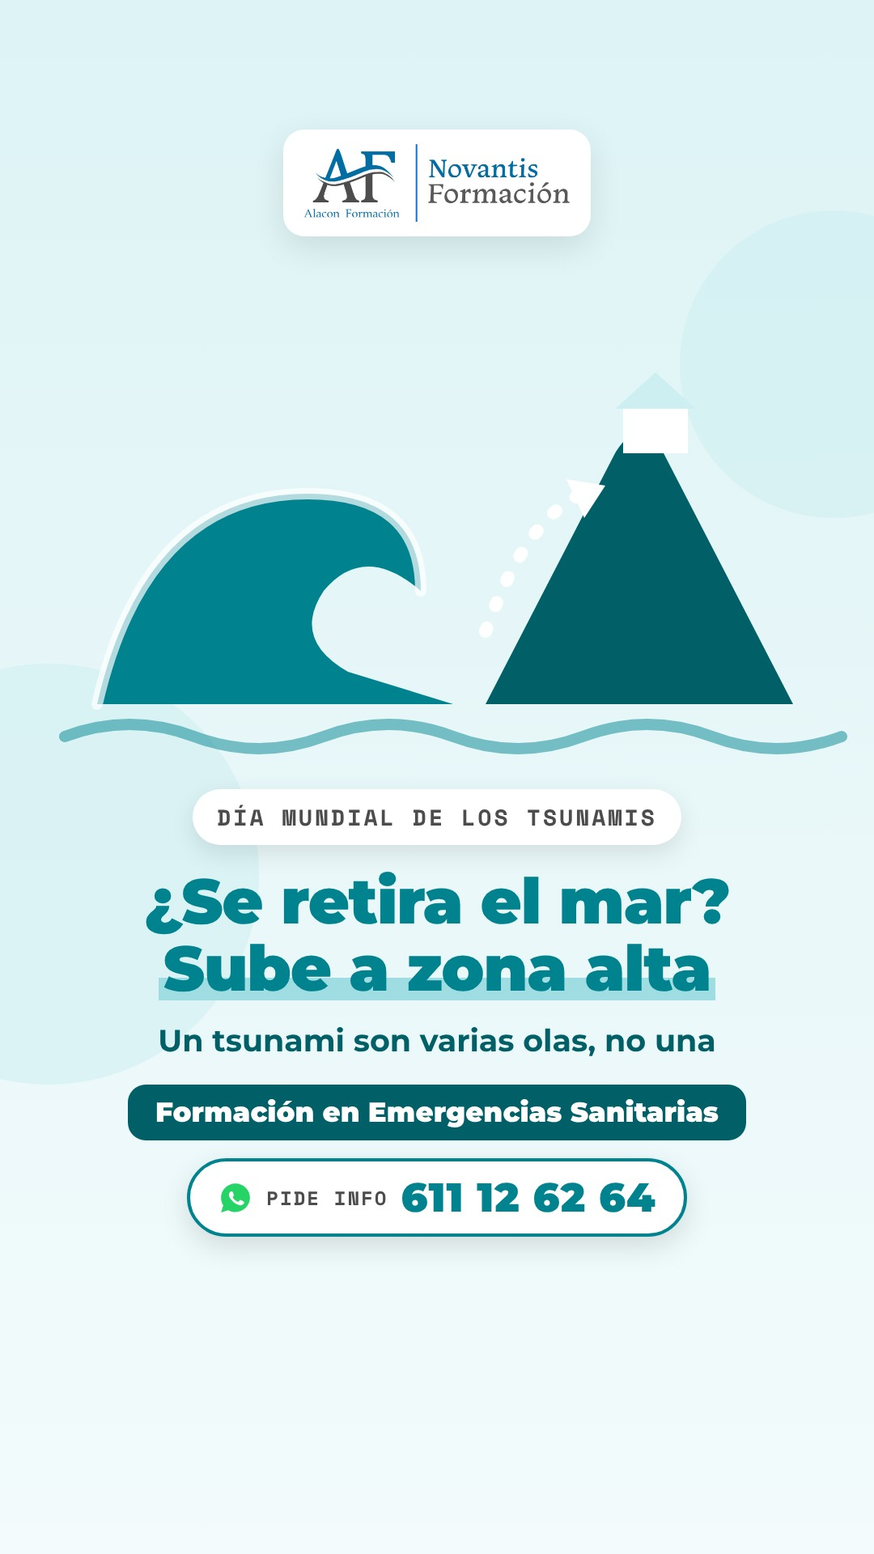
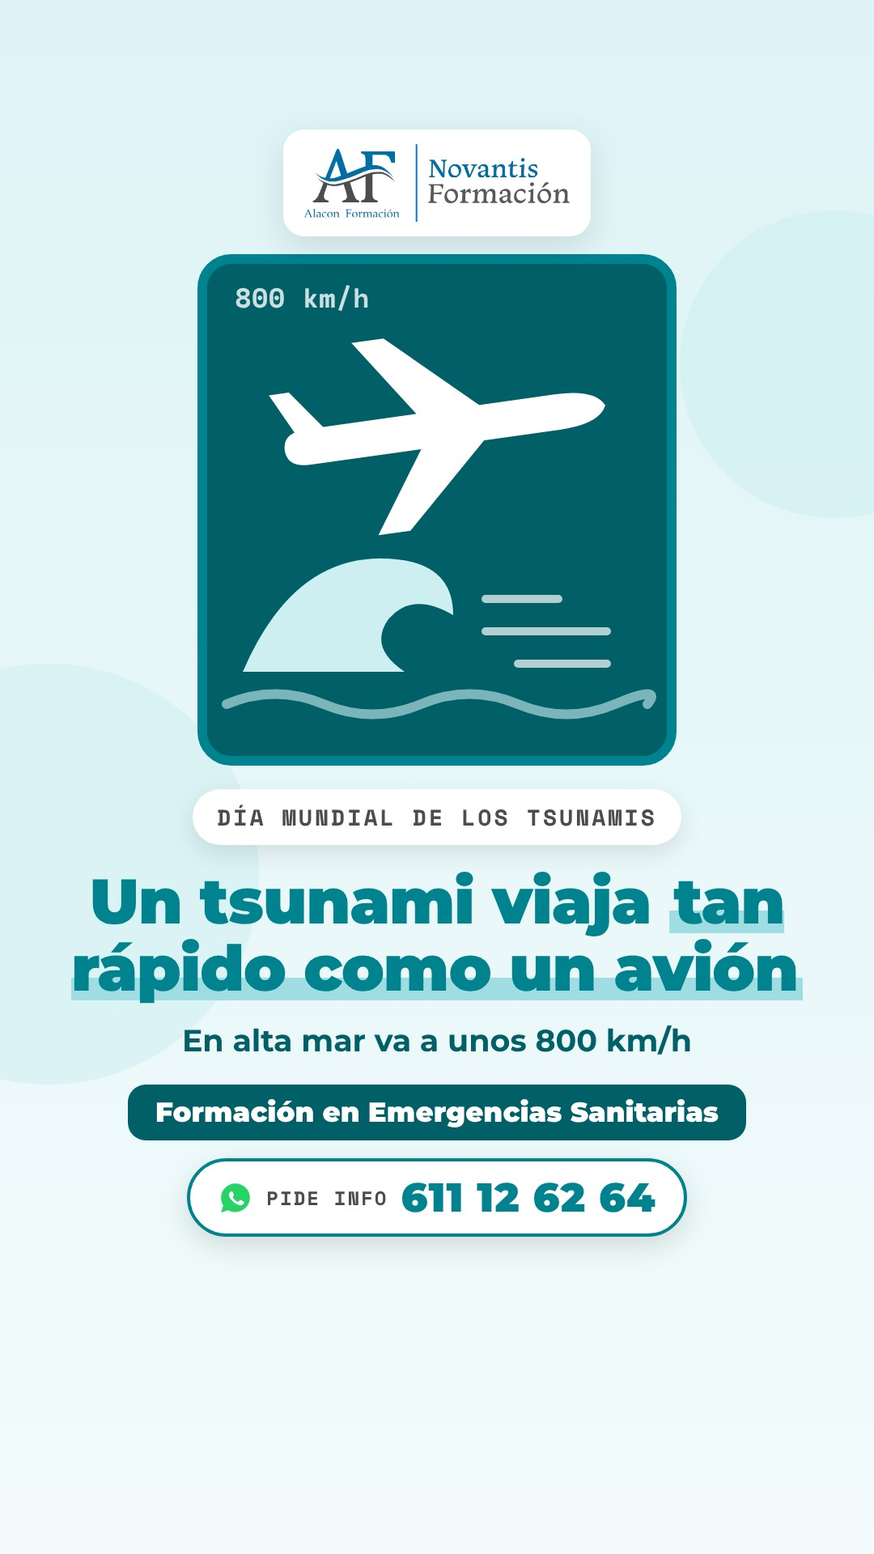
Historias 5, 6 y 7 de noviembre: datos curiosos en lugar de consejos obvios
Claude-Session: https://claude.ai/code/session_01SnWULSeimGG9wnx49MA5iz

Changed region(s): [[0.0611, 0.1562, 0.9778, 0.5], [0.0611, 0.5625, 0.9167, 0.6875]]

diff --git a/disenos/semana-2026-11-02/2026-11-07-gatos-dulce.html b/disenos/semana-2026-11-02/2026-11-07-gatos-dulce.html
@@ -14,7 +14,7 @@ body { font-family: "Montserrat", sans-serif; color: #FFFFFF; position: relative
 .kicker { text-align: center; }
 .chip { display: inline-flex; align-items: center; gap: 14px; background: #fff; border-radius: 999px; padding: 14px 30px;
   font-family: "Space Mono", monospace; font-weight: 700; font-size: 28px; letter-spacing: 3px; text-transform: uppercase;
-  color: #B02A21; box-shadow: 0 10px 30px rgba(0,0,0,.10); }
+  color: #4C4C4C; box-shadow: 0 10px 30px rgba(0,0,0,.10); }
 .titular { margin: 28px 70px 0; text-align: center; font-weight: 900; font-size: 78px;
   line-height: 1.07; letter-spacing: -1px; color: #FFFFFF; }
 .marca { background: linear-gradient(transparent 62%, #2F6F9E 62%, #2F6F9E 92%, transparent 92%); padding: 0 6px; }
@@ -23,7 +23,7 @@ body { font-family: "Montserrat", sans-serif; color: #FFFFFF; position: relative
 .curso { margin-top: 30px; text-align: center; }
 .curso span { display: inline-block; background: #7FC4EE; color: #0D2235;
   font-weight: 900; font-size: 34px; padding: 14px 34px; border-radius: 22px; line-height: 1.2; max-width: 900px; }
-.curso small { font-weight: 700; font-size: 26px; }
+.curso small { font-weight: 700; font-size: 24px; }
 .wa { margin-top: 22px; display: inline-flex; align-items: center;
   gap: 16px; background: #fff; border-radius: 999px; padding: 14px 34px; border: 4px solid #7FC4EE;
   box-shadow: 0 12px 34px rgba(0,0,0,.12); white-space: nowrap; }
@@ -32,20 +32,24 @@ body { font-family: "Montserrat", sans-serif; color: #FFFFFF; position: relative
 </style></head><body>
 <div class="circulo" style="width:520px;height:520px;left:-200px;top:820px"></div>
 <div class="circulo" style="width:380px;height:380px;right:-140px;top:260px"></div>
-<svg class="ilu" width="1080" height="640" viewBox="0 0 1080 640" aria-hidden="true"><circle cx="380" cy="320" r="190" fill="#1E3A52" stroke="#7FC4EE" stroke-width="14"/>
-<rect x="355" y="100" width="50" height="40" rx="10" fill="#7FC4EE"/>
-<path d="M380 320 L380 190" stroke="#7FC4EE" stroke-width="16" stroke-linecap="round"/>
-<path d="M380 320 L470 380" stroke="#7FC4EE" stroke-width="16" stroke-linecap="round"/>
-<circle cx="380" cy="320" r="18" fill="#7FC4EE"/>
-<text x="380" y="460" text-anchor="middle" font-family="Montserrat" font-weight="900" font-size="64" fill="#7FC4EE">5 min</text>
-<rect x="640" y="150" width="230" height="380" rx="40" fill="#fff"/>
-<rect x="665" y="200" width="180" height="250" rx="16" fill="#1E3A52"/>
-<text x="755" y="355" text-anchor="middle" font-family="Montserrat" font-weight="900" font-size="84" fill="#7FC4EE">112</text>
-<circle cx="755" cy="490" r="18" fill="#1E3A52"/></svg>
+<svg class="ilu" width="1080" height="640" viewBox="0 0 1080 640" aria-hidden="true"><rect x="250" y="10" width="580" height="620" rx="36" fill="#0A1A29"/>
+<rect x="250" y="10" width="580" height="620" rx="36" fill="none" stroke="#7FC4EE" stroke-width="12"/>
+
+<path d="M330 260 L360 120 L440 210 Z" fill="#fff"/><path d="M640 210 L720 120 L750 260 Z" fill="#fff"/>
+<ellipse cx="540" cy="330" rx="230" ry="190" fill="#fff"/>
+<path d="M362 160 L415 210 L375 228 Z M718 160 L665 210 L705 228 Z" fill="#F4B6C2"/>
+<ellipse cx="460" cy="310" rx="26" ry="36" fill="#0D2235"/><ellipse cx="620" cy="310" rx="26" ry="36" fill="#0D2235"/>
+<path d="M525 380 L555 380 L540 400 Z" fill="#7FC4EE"/>
+<path d="M540 400 Q 520 430 495 420 M540 400 Q 560 430 585 420" fill="none" stroke="#0D2235" stroke-width="6" stroke-linecap="round"/>
+<path d="M440 385 L330 370 M440 400 L330 410 M640 385 L750 370 M640 400 L750 410" stroke="#9AA9B6" stroke-width="5" stroke-linecap="round"/>
+<g transform="translate(700 540)"><path d="M-70 0 L-100 -25 L-100 25 Z M70 0 L100 -25 L100 25 Z" fill="#1E3A52"/>
+<ellipse cx="0" cy="0" rx="72" ry="44" fill="#7FC4EE"/><path d="M-40 -30 L-10 30 M0 -40 L30 40" stroke="#fff" stroke-width="10" opacity=".6"/></g>
+<text x="700" y="470" text-anchor="middle" font-family="Montserrat" font-weight="900" font-size="64" fill="#fff">?</text>
+<text x="290" y="70" font-family="Space Mono" font-weight="700" font-size="34" fill="#fff" opacity=".8">GEN TAS1R2</text></svg>
 <div class="logo"><img src="../assets/logo-alacon-novantis.png" alt="Alacon Formación × Novantis Formación"></div>
-<div class="bloque"><div class="kicker"><span class="chip"><svg width="40" height="40" viewBox="0 0 24 24" aria-hidden="true"><path d="M12 2 1 21h22L12 2z" fill="#D7362B"/><rect x="11" y="9" width="2" height="6" rx="1" fill="#fff"/><circle cx="12" cy="17.5" r="1.2" fill="#fff"/></svg><span>Convulsiones</span></span></div>
-<div class="titular">Nunca le metas <span class="marca">nada en la boca</span></div>
-<div class="nota">La lengua no se traga.<br>Más de 5 minutos: llama al 112</div>
-<div class="curso"><span>Formación en Emergencias Sanitarias</span></div>
+<div class="bloque"><div class="kicker"><span class="chip"><span>Gatos</span></span></div>
+<div class="titular">Los gatos <span class="marca">no notan el sabor dulce</span></div>
+<div class="nota">Les falta el receptor del dulce</div>
+<div class="curso"><span>Curso de Auxiliar de Veterinaria</span></div>
 <div class="wa"><svg width="44" height="44" viewBox="0 0 32 32" aria-hidden="true"><path fill="#25D366" d="M16 3C8.8 3 3 8.7 3 15.8c0 2.5.7 4.9 2 7L3 29l6.4-2c2 1.1 4.3 1.7 6.6 1.7 7.2 0 13-5.7 13-12.8S23.2 3 16 3z"/><path fill="#fff" d="M22.6 18.9c-.3-.2-1.9-.9-2.2-1-.3-.1-.5-.2-.7.2-.2.3-.8 1-1 1.2-.2.2-.4.2-.7.1-.3-.2-1.4-.5-2.6-1.6-1-.9-1.6-1.9-1.8-2.2-.2-.3 0-.5.1-.7l.5-.6c.2-.2.2-.4.3-.6.1-.2 0-.4 0-.6l-1-2.4c-.3-.6-.5-.5-.7-.5h-.6c-.2 0-.6.1-.9.4-.3.3-1.2 1.1-1.2 2.8 0 1.6 1.2 3.2 1.4 3.4.2.2 2.4 3.6 5.8 5 2.8 1.1 3.4.9 4 .8.6-.1 1.9-.8 2.2-1.5.3-.8.3-1.4.2-1.5-.1-.2-.3-.3-.6-.4z"/></svg><span>Pide info</span><b>611 12 62 64</b></div></div>
 </body></html>

diff --git a/disenos/semana-2026-11-02/2026-11-06-musica-alzheimer.html b/disenos/semana-2026-11-02/2026-11-06-musica-alzheimer.html
@@ -10,7 +10,7 @@ body { font-family: "Montserrat", sans-serif; color: #4C4C4C; position: relative
 .logo { position: absolute; top: 160px; left: 50%; transform: translateX(-50%); width: 380px; padding: 18px 26px;
   background: #fff; border-radius: 26px; box-shadow: 0 14px 40px rgba(0,0,0,.10); }
 .logo img { width: 100%; display: block; }
-.bloque { position: absolute; top: 975px; left: 0; right: 0; display: flex; flex-direction: column; align-items: center; }
+.bloque { position: absolute; top: 940px; left: 0; right: 0; display: flex; flex-direction: column; align-items: center; }
 .kicker { text-align: center; }
 .chip { display: inline-flex; align-items: center; gap: 14px; background: #fff; border-radius: 999px; padding: 14px 30px;
   font-family: "Space Mono", monospace; font-weight: 700; font-size: 28px; letter-spacing: 3px; text-transform: uppercase;
@@ -23,7 +23,7 @@ body { font-family: "Montserrat", sans-serif; color: #4C4C4C; position: relative
 .curso { margin-top: 30px; text-align: center; }
 .curso span { display: inline-block; background: #1F5A41; color: #fff;
   font-weight: 900; font-size: 34px; padding: 14px 34px; border-radius: 22px; line-height: 1.2; max-width: 900px; }
-.curso small { font-weight: 700; font-size: 26px; }
+.curso small { font-weight: 700; font-size: 24px; }
 .wa { margin-top: 22px; display: inline-flex; align-items: center;
   gap: 16px; background: #fff; border-radius: 999px; padding: 14px 34px; border: 4px solid #2E7D5B;
   box-shadow: 0 12px 34px rgba(0,0,0,.12); white-space: nowrap; }
@@ -32,19 +32,23 @@ body { font-family: "Montserrat", sans-serif; color: #4C4C4C; position: relative
 </style></head><body>
 <div class="circulo" style="width:520px;height:520px;left:-200px;top:820px"></div>
 <div class="circulo" style="width:380px;height:380px;right:-140px;top:260px"></div>
-<svg class="ilu" width="1080" height="640" viewBox="0 0 1080 640" aria-hidden="true"><rect x="170" y="340" width="740" height="150" rx="28" fill="#D5EDE2"/>
-<rect x="150" y="250" width="40" height="320" rx="18" fill="#1F5A41"/>
-<rect x="890" y="320" width="40" height="250" rx="18" fill="#1F5A41"/>
-<rect x="210" y="300" width="160" height="70" rx="34" fill="#fff"/>
-<path d="M330 330 Q 600 250 880 330 L880 380 L330 380 Z" fill="#2E7D5B"/>
-<circle cx="760" cy="150" r="120" fill="#fff" stroke="#2E7D5B" stroke-width="14"/>
-<text x="760" y="178" text-anchor="middle" font-family="Montserrat" font-weight="900" font-size="88" fill="#1F5A41">2 h</text>
-<path d="M620 120 A150 150 0 0 1 870 40" fill="none" stroke="#1F5A41" stroke-width="12" stroke-linecap="round"/>
-<path d="M858 18 L890 46 L850 60 Z" fill="#1F5A41"/></svg>
+<svg class="ilu" width="1080" height="640" viewBox="0 0 1080 640" aria-hidden="true"><rect x="250" y="10" width="580" height="620" rx="36" fill="#1F5A41"/>
+<rect x="250" y="10" width="580" height="620" rx="36" fill="none" stroke="#2E7D5B" stroke-width="12"/>
+
+<circle cx="520" cy="350" r="200" fill="#111"/>
+<circle cx="520" cy="350" r="170" fill="none" stroke="#333" stroke-width="4"/>
+<circle cx="520" cy="350" r="140" fill="none" stroke="#333" stroke-width="4"/>
+<circle cx="520" cy="350" r="110" fill="none" stroke="#333" stroke-width="4"/>
+<path d="M420 240 A150 150 0 0 1 560 205" fill="none" stroke="#fff" stroke-width="8" stroke-linecap="round" opacity=".35"/>
+<circle cx="520" cy="350" r="62" fill="#D5EDE2"/><circle cx="520" cy="350" r="10" fill="#111"/>
+<g fill="#fff"><ellipse cx="720" cy="230" rx="30" ry="22" transform="rotate(-20 720 230)"/><rect x="742" y="110" width="12" height="122"/>
+<path d="M742 110 L790 130 L790 160 L754 145 Z"/>
+<ellipse cx="760" cy="430" rx="24" ry="18" transform="rotate(-20 760 430)"/><rect x="777" y="330" width="10" height="102"/></g>
+<text x="290" y="70" font-family="Space Mono" font-weight="700" font-size="34" fill="#fff" opacity=".8">MEMORIA</text></svg>
 <div class="logo"><img src="../assets/logo-alacon-novantis.png" alt="Alacon Formación × Novantis Formación"></div>
-<div class="bloque"><div class="kicker"><span class="chip"><span>Personas encamadas</span></span></div>
-<div class="titular">Cambia de postura <span class="marca">cada 2 horas</span></div>
-<div class="nota">Así se previenen las úlceras por presión</div>
-<div class="curso"><span>Certificado SSCS0108<br><small>Atención sociosanitaria a personas en el domicilio</small></span></div>
+<div class="bloque"><div class="kicker"><span class="chip"><span>Alzhéimer</span></span></div>
+<div class="titular">Su música favorita <span class="marca">despierta recuerdos</span></div>
+<div class="nota">La memoria musical resiste al alzhéimer</div>
+<div class="curso"><span>Certificado SSCS0208<br><small>Atención sociosanitaria a personas dependientes en instituciones sociales</small></span></div>
 <div class="wa"><svg width="44" height="44" viewBox="0 0 32 32" aria-hidden="true"><path fill="#25D366" d="M16 3C8.8 3 3 8.7 3 15.8c0 2.5.7 4.9 2 7L3 29l6.4-2c2 1.1 4.3 1.7 6.6 1.7 7.2 0 13-5.7 13-12.8S23.2 3 16 3z"/><path fill="#fff" d="M22.6 18.9c-.3-.2-1.9-.9-2.2-1-.3-.1-.5-.2-.7.2-.2.3-.8 1-1 1.2-.2.2-.4.2-.7.1-.3-.2-1.4-.5-2.6-1.6-1-.9-1.6-1.9-1.8-2.2-.2-.3 0-.5.1-.7l.5-.6c.2-.2.2-.4.3-.6.1-.2 0-.4 0-.6l-1-2.4c-.3-.6-.5-.5-.7-.5h-.6c-.2 0-.6.1-.9.4-.3.3-1.2 1.1-1.2 2.8 0 1.6 1.2 3.2 1.4 3.4.2.2 2.4 3.6 5.8 5 2.8 1.1 3.4.9 4 .8.6-.1 1.9-.8 2.2-1.5.3-.8.3-1.4.2-1.5-.1-.2-.3-.3-.6-.4z"/></svg><span>Pide info</span><b>611 12 62 64</b></div></div>
 </body></html>

diff --git a/disenos/semana-2026-11-02/2026-11-05-tsunamis.html b/disenos/semana-2026-11-02/2026-11-05-tsunamis.html
@@ -23,7 +23,7 @@ body { font-family: "Montserrat", sans-serif; color: #4C4C4C; position: relative
 .curso { margin-top: 30px; text-align: center; }
 .curso span { display: inline-block; background: #005F67; color: #fff;
   font-weight: 900; font-size: 34px; padding: 14px 34px; border-radius: 22px; line-height: 1.2; max-width: 900px; }
-.curso small { font-weight: 700; font-size: 26px; }
+.curso small { font-weight: 700; font-size: 24px; }
 .wa { margin-top: 22px; display: inline-flex; align-items: center;
   gap: 16px; background: #fff; border-radius: 999px; padding: 14px 34px; border: 4px solid #00838F;
   box-shadow: 0 12px 34px rgba(0,0,0,.12); white-space: nowrap; }
@@ -32,17 +32,22 @@ body { font-family: "Montserrat", sans-serif; color: #4C4C4C; position: relative
 </style></head><body>
 <div class="circulo" style="width:520px;height:520px;left:-200px;top:820px"></div>
 <div class="circulo" style="width:380px;height:380px;right:-140px;top:260px"></div>
-<svg class="ilu" width="1080" height="640" viewBox="0 0 1080 640" aria-hidden="true"><path d="M600 560 L760 250 Q790 200 820 250 L980 560 Z" fill="#005F67"/>
-<rect x="770" y="190" width="80" height="60" fill="#fff"/><path d="M760 195 L810 150 L860 195 Z" fill="#CDEFF1"/>
-<path d="M120 560 Q 180 300 380 300 Q 520 300 520 420 Q 450 360 400 420 Q 360 480 430 520 L560 560 Z" fill="#00838F"/>
-<path d="M120 560 Q 180 300 380 300 Q 520 300 520 420" fill="none" stroke="#fff" stroke-width="14" stroke-linecap="round" opacity=".7"/>
-<path d="M80 600 Q 160 570 240 600 T 400 600 T 560 600 T 720 600 T 880 600 T 1040 600" fill="none" stroke="#00838F" stroke-width="14" stroke-linecap="round" opacity=".5"/>
-<path d="M600 470 Q 650 330 720 300" fill="none" stroke="#fff" stroke-width="16" stroke-linecap="round" stroke-dasharray="4 30"/>
-<path d="M700 282 L748 290 L722 330 Z" fill="#fff"/></svg>
+<svg class="ilu" width="1080" height="640" viewBox="0 0 1080 640" aria-hidden="true"><rect x="250" y="10" width="580" height="620" rx="36" fill="#005F67"/>
+<rect x="250" y="10" width="580" height="620" rx="36" fill="none" stroke="#00838F" stroke-width="12"/>
+
+<g transform="translate(540 220) rotate(-8)" fill="#fff">
+  <path d="M-190 0 Q-190 -22 -160 -22 L150 -22 Q200 -22 210 0 Q200 22 150 22 L-160 22 Q-190 22 -190 0 Z"/>
+  <path d="M-20 -18 L-90 -120 L-50 -120 L60 -18 Z"/><path d="M-20 18 L-90 120 L-50 120 L60 18 Z"/>
+  <path d="M-170 -10 L-200 -70 L-175 -70 L-130 -10 Z"/>
+</g>
+<path d="M300 520 Q 360 380 470 380 Q 560 380 560 450 Q 510 420 480 455 Q 455 490 500 520 Z" fill="#CDEFF1"/>
+<path d="M280 560 Q 340 535 400 560 T 520 560 T 640 560 T 760 560 T 800 560" fill="none" stroke="#CDEFF1" stroke-width="12" stroke-linecap="round" opacity=".6"/>
+<path d="M600 470 h150 M640 510 h110 M600 430 h90" stroke="#fff" stroke-width="10" stroke-linecap="round" opacity=".7"/>
+<text x="290" y="70" font-family="Space Mono" font-weight="700" font-size="34" fill="#fff" opacity=".8">800 km/h</text></svg>
 <div class="logo"><img src="../assets/logo-alacon-novantis.png" alt="Alacon Formación × Novantis Formación"></div>
 <div class="bloque"><div class="kicker"><span class="chip"><span>Día Mundial de los Tsunamis</span></span></div>
-<div class="titular">¿Se retira el mar? <span class="marca">Sube a zona alta</span></div>
-<div class="nota">Un tsunami son varias olas, no una</div>
+<div class="titular">Un tsunami viaja <span class="marca">tan rápido como un avión</span></div>
+<div class="nota">En alta mar va a unos 800 km/h</div>
 <div class="curso"><span>Formación en Emergencias Sanitarias</span></div>
 <div class="wa"><svg width="44" height="44" viewBox="0 0 32 32" aria-hidden="true"><path fill="#25D366" d="M16 3C8.8 3 3 8.7 3 15.8c0 2.5.7 4.9 2 7L3 29l6.4-2c2 1.1 4.3 1.7 6.6 1.7 7.2 0 13-5.7 13-12.8S23.2 3 16 3z"/><path fill="#fff" d="M22.6 18.9c-.3-.2-1.9-.9-2.2-1-.3-.1-.5-.2-.7.2-.2.3-.8 1-1 1.2-.2.2-.4.2-.7.1-.3-.2-1.4-.5-2.6-1.6-1-.9-1.6-1.9-1.8-2.2-.2-.3 0-.5.1-.7l.5-.6c.2-.2.2-.4.3-.6.1-.2 0-.4 0-.6l-1-2.4c-.3-.6-.5-.5-.7-.5h-.6c-.2 0-.6.1-.9.4-.3.3-1.2 1.1-1.2 2.8 0 1.6 1.2 3.2 1.4 3.4.2.2 2.4 3.6 5.8 5 2.8 1.1 3.4.9 4 .8.6-.1 1.9-.8 2.2-1.5.3-.8.3-1.4.2-1.5-.1-.2-.3-.3-.6-.4z"/></svg><span>Pide info</span><b>611 12 62 64</b></div></div>
 </body></html>

diff --git a/disenos/semana-2026-11-02/2026-11-04-tension.html b/disenos/semana-2026-11-02/2026-11-04-tension.html
@@ -23,7 +23,7 @@ body { font-family: "Montserrat", sans-serif; color: #4C4C4C; position: relative
 .curso { margin-top: 30px; text-align: center; }
 .curso span { display: inline-block; background: #4B2A75; color: #fff;
   font-weight: 900; font-size: 34px; padding: 14px 34px; border-radius: 22px; line-height: 1.2; max-width: 900px; }
-.curso small { font-weight: 700; font-size: 26px; }
+.curso small { font-weight: 700; font-size: 24px; }
 .wa { margin-top: 22px; display: inline-flex; align-items: center;
   gap: 16px; background: #fff; border-radius: 999px; padding: 14px 34px; border: 4px solid #6A3FA0;
   box-shadow: 0 12px 34px rgba(0,0,0,.12); white-space: nowrap; }

diff --git a/disenos/semana-2026-11-02/2026-11-08-radiologia.html b/disenos/semana-2026-11-02/2026-11-08-radiologia.html
@@ -23,7 +23,7 @@ body { font-family: "Montserrat", sans-serif; color: #4C4C4C; position: relative
 .curso { margin-top: 30px; text-align: center; }
 .curso span { display: inline-block; background: #00527E; color: #fff;
   font-weight: 900; font-size: 34px; padding: 14px 34px; border-radius: 22px; line-height: 1.2; max-width: 900px; }
-.curso small { font-weight: 700; font-size: 26px; }
+.curso small { font-weight: 700; font-size: 24px; }
 .wa { margin-top: 22px; display: inline-flex; align-items: center;
   gap: 16px; background: #fff; border-radius: 999px; padding: 14px 34px; border: 4px solid #006DA6;
   box-shadow: 0 12px 34px rgba(0,0,0,.12); white-space: nowrap; }

diff --git a/herramientas/historia_color.py b/herramientas/historia_color.py
@@ -85,20 +85,64 @@ def ilu_rayosx(P, D, L):
 <g transform="rotate(-3 505 360)"><rect x="475" y="262" width="60" height="18" rx="9" fill="none" stroke="#FFD34D" stroke-width="10"/></g>
 <text x="290" y="70" font-family="Space Mono" font-weight="700" font-size="34" fill="#fff" opacity=".8">1895</text>'''
 
+def ficha(P, D, etiqueta, dentro):
+    """Marco tipo placa (el estilo de la radiografía) con una etiqueta arriba a la izquierda."""
+    fondo = "#0A1A29" if D == "#FFFFFF" else D  # en la paleta oscura, la placa va más oscura que el fondo
+    return f'''<rect x="250" y="10" width="580" height="620" rx="36" fill="{fondo}"/>
+<rect x="250" y="10" width="580" height="620" rx="36" fill="none" stroke="{P}" stroke-width="12"/>
+{dentro}
+<text x="290" y="70" font-family="Space Mono" font-weight="700" font-size="34" fill="#fff" opacity=".8">{etiqueta}</text>'''
+
+def ilu_avion_ola(P, D, L):
+    return ficha(P, D, "800 km/h", f'''
+<g transform="translate(540 220) rotate(-8)" fill="#fff">
+  <path d="M-190 0 Q-190 -22 -160 -22 L150 -22 Q200 -22 210 0 Q200 22 150 22 L-160 22 Q-190 22 -190 0 Z"/>
+  <path d="M-20 -18 L-90 -120 L-50 -120 L60 -18 Z"/><path d="M-20 18 L-90 120 L-50 120 L60 18 Z"/>
+  <path d="M-170 -10 L-200 -70 L-175 -70 L-130 -10 Z"/>
+</g>
+<path d="M300 520 Q 360 380 470 380 Q 560 380 560 450 Q 510 420 480 455 Q 455 490 500 520 Z" fill="{L}"/>
+<path d="M280 560 Q 340 535 400 560 T 520 560 T 640 560 T 760 560 T 800 560" fill="none" stroke="{L}" stroke-width="12" stroke-linecap="round" opacity=".6"/>
+<path d="M600 470 h150 M640 510 h110 M600 430 h90" stroke="#fff" stroke-width="10" stroke-linecap="round" opacity=".7"/>''')
+
+def ilu_musica(P, D, L):
+    return ficha(P, D, "MEMORIA", f'''
+<circle cx="520" cy="350" r="200" fill="#111"/>
+<circle cx="520" cy="350" r="170" fill="none" stroke="#333" stroke-width="4"/>
+<circle cx="520" cy="350" r="140" fill="none" stroke="#333" stroke-width="4"/>
+<circle cx="520" cy="350" r="110" fill="none" stroke="#333" stroke-width="4"/>
+<path d="M420 240 A150 150 0 0 1 560 205" fill="none" stroke="#fff" stroke-width="8" stroke-linecap="round" opacity=".35"/>
+<circle cx="520" cy="350" r="62" fill="{L}"/><circle cx="520" cy="350" r="10" fill="#111"/>
+<g fill="#fff"><ellipse cx="720" cy="230" rx="30" ry="22" transform="rotate(-20 720 230)"/><rect x="742" y="110" width="12" height="122"/>
+<path d="M742 110 L790 130 L790 160 L754 145 Z"/>
+<ellipse cx="760" cy="430" rx="24" ry="18" transform="rotate(-20 760 430)"/><rect x="777" y="330" width="10" height="102"/></g>''')
+
+def ilu_gato(P, D, L):
+    return ficha(P, D, "GEN TAS1R2", f'''
+<path d="M330 260 L360 120 L440 210 Z" fill="#fff"/><path d="M640 210 L720 120 L750 260 Z" fill="#fff"/>
+<ellipse cx="540" cy="330" rx="230" ry="190" fill="#fff"/>
+<path d="M362 160 L415 210 L375 228 Z M718 160 L665 210 L705 228 Z" fill="#F4B6C2"/>
+<ellipse cx="460" cy="310" rx="26" ry="36" fill="#0D2235"/><ellipse cx="620" cy="310" rx="26" ry="36" fill="#0D2235"/>
+<path d="M525 380 L555 380 L540 400 Z" fill="{P}"/>
+<path d="M540 400 Q 520 430 495 420 M540 400 Q 560 430 585 420" fill="none" stroke="#0D2235" stroke-width="6" stroke-linecap="round"/>
+<path d="M440 385 L330 370 M440 400 L330 410 M640 385 L750 370 M640 400 L750 410" stroke="#9AA9B6" stroke-width="5" stroke-linecap="round"/>
+<g transform="translate(700 540)"><path d="M-70 0 L-100 -25 L-100 25 Z M70 0 L100 -25 L100 25 Z" fill="{L}"/>
+<ellipse cx="0" cy="0" rx="72" ry="44" fill="{P}"/><path d="M-40 -30 L-10 30 M0 -40 L30 40" stroke="#fff" stroke-width="10" opacity=".6"/></g>
+<text x="700" y="470" text-anchor="middle" font-family="Montserrat" font-weight="900" font-size="64" fill="#fff">?</text>''')
+
 HISTORIAS = [
     dict(fecha="2026-11-04", tema="tension", paleta="violeta", ilu=ilu_tension,
          kicker="Tensión arterial", titular='Cruzar las piernas te <span class="marca">sube la tensión</span>',
          nota="Mídela sentado y tras 5 minutos de reposo", curso="Curso de Auxiliar de Enfermería"),
-    dict(fecha="2026-11-05", tema="tsunamis", paleta="oceano", ilu=ilu_tsunami,
-         kicker="Día Mundial de los Tsunamis", titular='¿Se retira el mar? <span class="marca">Sube a zona alta</span>',
-         nota="Un tsunami son varias olas, no una", curso="Formación en Emergencias Sanitarias"),
-    dict(fecha="2026-11-06", tema="ulceras", paleta="salvia", ilu=ilu_cama,
-         kicker="Personas encamadas", titular='Cambia de postura <span class="marca">cada 2 horas</span>',
-         nota="Así se previenen las úlceras por presión",
-         curso="Certificado SSCS0108<br><small>Atención sociosanitaria a personas en el domicilio</small>"),
-    dict(fecha="2026-11-07", tema="convulsiones", paleta="noche", ilu=ilu_convulsion, peligro=True,
-         kicker="Convulsiones", titular='Nunca le metas <span class="marca">nada en la boca</span>',
-         nota="La lengua no se traga.<br>Más de 5 minutos: llama al 112", curso="Formación en Emergencias Sanitarias"),
+    dict(fecha="2026-11-05", tema="tsunamis", paleta="oceano", ilu=ilu_avion_ola,
+         kicker="Día Mundial de los Tsunamis", titular='Un tsunami viaja <span class="marca">tan rápido como un avión</span>',
+         nota="En alta mar va a unos 800 km/h", curso="Formación en Emergencias Sanitarias"),
+    dict(fecha="2026-11-06", tema="musica-alzheimer", paleta="salvia", ilu=ilu_musica, top=940,
+         kicker="Alzhéimer", titular='Su música favorita <span class="marca">despierta recuerdos</span>',
+         nota="La memoria musical resiste al alzhéimer",
+         curso="Certificado SSCS0208<br><small>Atención sociosanitaria a personas dependientes en instituciones sociales</small>"),
+    dict(fecha="2026-11-07", tema="gatos-dulce", paleta="noche", ilu=ilu_gato,
+         kicker="Gatos", titular='Los gatos <span class="marca">no notan el sabor dulce</span>',
+         nota="Les falta el receptor del dulce", curso="Curso de Auxiliar de Veterinaria"),
     dict(fecha="2026-11-08", tema="radiologia", paleta="marca", ilu=ilu_rayosx,
          kicker="Día Internacional de la Radiología", titular='La 1.ª radiografía: <span class="marca">una mano con anillo</span>',
          nota="Röntgen descubrió los rayos X el 8 de noviembre de 1895", curso="Curso de Auxiliar de Enfermería"),
@@ -123,7 +167,7 @@ body {{ font-family: "Montserrat", sans-serif; color: {texto}; position: relativ
 .logo {{ position: absolute; top: 160px; left: 50%; transform: translateX(-50%); width: 380px; padding: 18px 26px;
   background: #fff; border-radius: 26px; box-shadow: 0 14px 40px rgba(0,0,0,.10); }}
 .logo img {{ width: 100%; display: block; }}
-.bloque {{ position: absolute; top: 975px; left: 0; right: 0; display: flex; flex-direction: column; align-items: center; }}
+.bloque {{ position: absolute; top: {h.get("top", 975)}px; left: 0; right: 0; display: flex; flex-direction: column; align-items: center; }}
 .kicker {{ text-align: center; }}
 .chip {{ display: inline-flex; align-items: center; gap: 14px; background: #fff; border-radius: 999px; padding: 14px 30px;
   font-family: "Space Mono", monospace; font-weight: 700; font-size: 28px; letter-spacing: 3px; text-transform: uppercase;
@@ -136,7 +180,7 @@ body {{ font-family: "Montserrat", sans-serif; color: {texto}; position: relativ
 .curso {{ margin-top: 30px; text-align: center; }}
 .curso span {{ display: inline-block; background: {D if not oscuro else P}; color: {"#fff" if not oscuro else "#0D2235"};
   font-weight: 900; font-size: 34px; padding: 14px 34px; border-radius: 22px; line-height: 1.2; max-width: 900px; }}
-.curso small {{ font-weight: 700; font-size: 26px; }}
+.curso small {{ font-weight: 700; font-size: 24px; }}
 .wa {{ margin-top: 22px; display: inline-flex; align-items: center;
   gap: 16px; background: #fff; border-radius: 999px; padding: 14px 34px; border: 4px solid {P};
   box-shadow: 0 12px 34px rgba(0,0,0,.12); white-space: nowrap; }}
